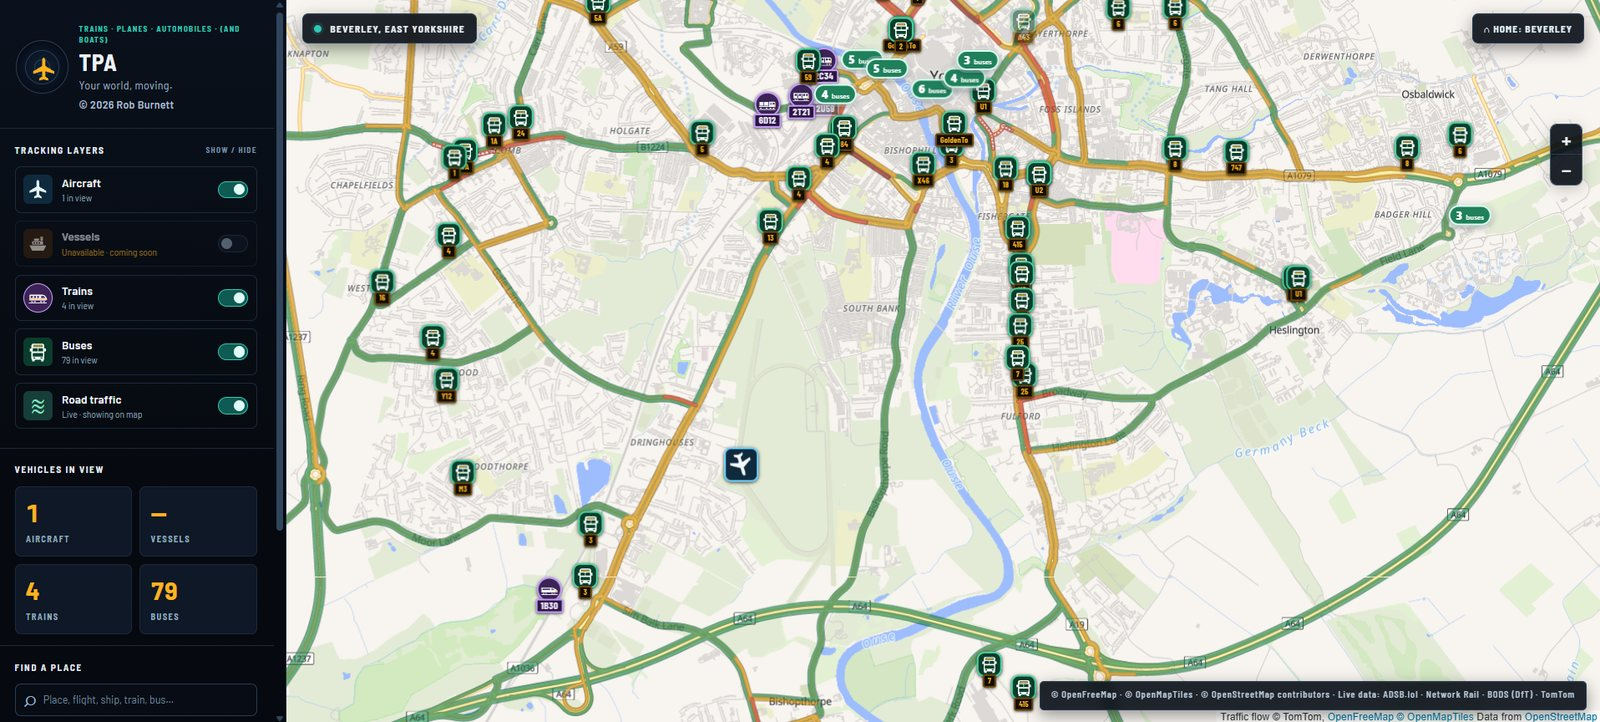
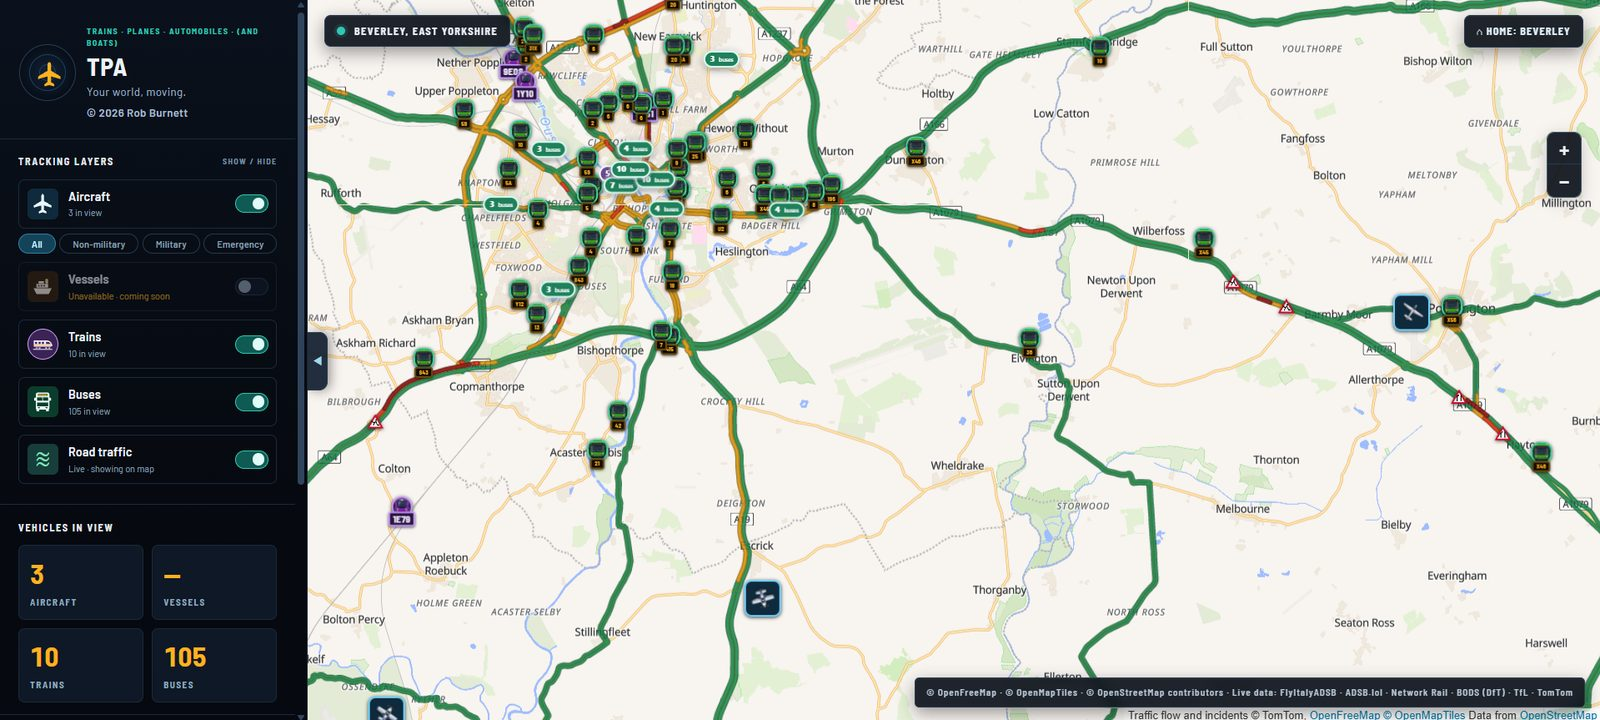
Holding page shows launch-day TPA; kit gives trains 450 MB
Claude-Session: https://claude.ai/code/session_01NgCC8xBThwbotK2t1ds1PW

diff --git a/v4/web/coming-soon/index.html b/v4/web/coming-soon/index.html
@@ -7,7 +7,8 @@
 <meta name="description" content="TPA: buses, trains, planes and road traffic moving live on one map of the UK. Free for everyone. Coming soon.">
 <meta name="theme-color" content="#05080e">
 <style>
-/* TPA coming-soon page (kit 4.16; 4.22.1: new icons, the fleet, Geoff's bus). Control-room look: navy-black, departure-board amber, signal teal.
+/* TPA coming-soon page (kit 4.16; 4.22.1: new icons, the fleet, Geoff's bus; 12 Nov 2026: shows what launch day looks like -
+   planes and their pictures, bus types, traffic signs, the owner's plane icon). Control-room look: navy-black, departure-board amber, signal teal.
    Self-contained: own fonts, no outside requests, nothing collected. */
 @font-face{font-family:'TPA Sans';src:url(fonts/Barlow-Regular.woff) format('woff');font-weight:400;font-display:swap}
 @font-face{font-family:'TPA Sans';src:url(fonts/Barlow-SemiBold.woff) format('woff');font-weight:600;font-display:swap}
@@ -59,21 +60,24 @@ h1 em{font-style:normal;color:var(--amber)}
 .m3{color:var(--teal);animation-duration:9s;animation-delay:-3s;border-radius:50%;top:28%}
 .m4{color:var(--purple);animation-duration:17s;animation-delay:-12s}
 @keyframes glide{from{transform:translateX(0)}to{transform:translateX(calc(100vw + 120px))}}
-.m3 svg{transform:rotate(90deg)}
+.m3{border:none;background:none}.m3 img{transform:rotate(90deg)}
 
 .mover.pic{padding:2px;overflow:hidden}.mover.pic img,.card .ic.pic img{width:100%;height:100%;object-fit:contain;display:block}
 .card .ic.pic{padding:2px;overflow:hidden}
 /* the fleet: click any bus or train for a picture of its type */
 .fleet-sec{padding-block:34px 40px}
 .fleet-lead{margin:-6px 0 16px;color:#c9d4e2;max-width:62ch}
-.fleet{display:grid;grid-template-columns:minmax(0,1.35fr) minmax(0,2fr);gap:12px}
-@media (max-width:760px){.fleet{grid-template-columns:minmax(0,1fr)}}
+.fleet{display:grid;gap:18px}
+.group h3{margin:0 0 8px;font-family:var(--sign);font-weight:700;font-size:.85rem;letter-spacing:.18em;text-transform:uppercase}
+.row6{display:grid;grid-template-columns:repeat(6,minmax(0,1fr));gap:8px}
+@media (max-width:860px){.row6{grid-template-columns:repeat(3,minmax(0,1fr))}}
+@media (max-width:420px){.row6{grid-template-columns:repeat(2,minmax(0,1fr))}}
+.fleet .plate{padding:6px}
+.fleet .plate figcaption{font-size:.68rem;padding-top:2px}
+.card .ic.sign{border:none;background:none}.card .ic.sign svg{width:42px;height:42px}
 .plate{margin:0;border-radius:12px;border:1px solid #cfd8e3;background:radial-gradient(ellipse at 50% 35%,#ffffff 0,#eef2f7 60%,#dfe5ed 100%);padding:10px;display:grid;align-content:space-between}
 .plate img{display:block;width:100%;height:auto;mix-blend-mode:multiply}
 .plate figcaption{color:#3a4a5e;font-size:.8rem;font-family:var(--sign);letter-spacing:.1em;text-transform:uppercase;padding:4px 4px 0}
-.trains{display:grid;grid-template-columns:repeat(3,minmax(0,1fr));gap:8px}
-.trains .plate{padding:6px}
-.trains .plate figcaption{font-size:.68rem;padding-top:2px}
 /* screen */
 .screen-sec{padding-block:30px}
 .monitor{border:1px solid var(--line2);border-radius:12px;background:var(--panel);padding:10px;box-shadow:0 30px 80px -30px rgba(255,178,30,.18),0 0 0 1px rgba(255,255,255,.02)}
@@ -130,7 +134,7 @@ footer .wrap{padding-block:18px 26px;color:var(--soft);font-size:.82rem;display:
     <div class="rail"></div>
     <div class="mover m1 pic"><img src="pics/icon-train.webp" alt=""></div>
     <div class="mover m2 pic"><img src="pics/icon-bus.webp" alt=""></div>
-    <div class="mover m3"><svg viewBox="0 0 32 32"><path fill="currentColor" d="M16 1.8c1.25 0 2.05 1.7 2.05 3.7V12l10.95 6.6v3.1L18.05 18.6V25l3.6 2.7v2.5L16 28.7l-5.65 1.5v-2.5l3.6-2.7v-6.4L3 21.7v-3.1L13.95 12V5.5c0-2 .8-3.7 2.05-3.7Z"/></svg></div>
+    <div class="mover m3 pic"><img src="pics/icon-plane.webp" alt=""></div>
     <div class="mover m4 pic"><img src="pics/icon-train.webp" alt=""></div>
   </div>
 
@@ -138,34 +142,47 @@ footer .wrap{padding-block:18px 26px;color:var(--soft);font-size:.82rem;display:
     <h2 id="ph">A first look</h2>
     <div class="monitor">
       <div class="bar"><span>TPA · live UK transport map</span><span class="live">● Preview</span></div>
-      <img src="preview.jpg" alt="A preview of TPA: a dark map of the UK with bus, train and plane icons and coloured road traffic" width="1600" height="722" onerror="document.getElementById('preview-sec').hidden=true">
+      <img src="preview.jpg" alt="A preview of TPA over York: buses, trains and planes on the map, roads coloured by traffic, and roadworks signs" width="1600" height="720" onerror="document.getElementById('preview-sec').hidden=true">
     </div>
-    <p class="caption">Taken from the test version over York. Map data © OpenStreetMap contributors, map style by OpenFreeMap, traffic flow © TomTom.</p>
+    <p class="caption">Taken from the test version over York, 12 November 2026. Map data © OpenStreetMap contributors, map style by OpenFreeMap, traffic flow and incidents © TomTom, aircraft from FlyItalyADSB.</p>
   </section>
 
   <section class="fleet-sec" aria-labelledby="fh">
     <h2 id="fh">Click anything</h2>
-    <p class="fleet-lead">Tap a bus or a train to see where it's going, and a picture of what it is: TPA's own drawings, from a Pendolino to a Class 66 freight engine.</p>
+    <p class="fleet-lead">Tap a bus, train or plane to see where it's going, and a picture of what it is: TPA's own drawings, from a double decker to a Pendolino to an Airbus A350.</p>
     <div class="fleet">
-      <figure class="plate"><img src="pics/bus-geoff.webp" alt="Geoff the cat giving a thumbs up from the driver's seat of a TPA bus" width="720" height="400" loading="lazy"><figcaption>Every bus · driver: Geoff</figcaption></figure>
-      <div class="trains">
-        <figure class="plate"><img src="pics/c800.webp" alt="" width="720" height="400" loading="lazy"><figcaption>Azuma</figcaption></figure>
-        <figure class="plate"><img src="pics/c390.webp" alt="" width="720" height="400" loading="lazy"><figcaption>Pendolino</figcaption></figure>
-        <figure class="plate"><img src="pics/c43.webp" alt="" width="720" height="400" loading="lazy"><figcaption>InterCity 125</figcaption></figure>
-        <figure class="plate"><img src="pics/c195.webp" alt="" width="720" height="400" loading="lazy"><figcaption>Civity</figcaption></figure>
-        <figure class="plate"><img src="pics/c755.webp" alt="" width="720" height="400" loading="lazy"><figcaption>FLIRT</figcaption></figure>
-        <figure class="plate"><img src="pics/c66.webp" alt="" width="720" height="400" loading="lazy"><figcaption>Class 66 freight</figcaption></figure>
-      </div>
+      <div class="group"><h3 style="color:var(--green)">Buses</h3><div class="row6">
+          <figure class="plate"><img src="pics/bus-dd.webp" alt="A double decker bus" width="720" height="400" loading="lazy"><figcaption>Double decker</figcaption></figure>
+          <figure class="plate"><img src="pics/bus-sd.webp" alt="A single decker bus" width="720" height="400" loading="lazy"><figcaption>Single decker</figcaption></figure>
+          <figure class="plate"><img src="pics/bus-coach.webp" alt="A coach" width="720" height="400" loading="lazy"><figcaption>Coach</figcaption></figure>
+          <figure class="plate"><img src="pics/bus-mini.webp" alt="A minibus" width="720" height="400" loading="lazy"><figcaption>Minibus</figcaption></figure>
+      </div></div>
+      <div class="group"><h3 style="color:var(--purple)">Trains</h3><div class="row6">
+          <figure class="plate"><img src="pics/c800.webp" alt="" width="720" height="400" loading="lazy"><figcaption>Azuma</figcaption></figure>
+          <figure class="plate"><img src="pics/c390.webp" alt="" width="720" height="400" loading="lazy"><figcaption>Pendolino</figcaption></figure>
+          <figure class="plate"><img src="pics/c43.webp" alt="" width="720" height="400" loading="lazy"><figcaption>InterCity 125</figcaption></figure>
+          <figure class="plate"><img src="pics/c195.webp" alt="" width="720" height="400" loading="lazy"><figcaption>Civity</figcaption></figure>
+          <figure class="plate"><img src="pics/c755.webp" alt="" width="720" height="400" loading="lazy"><figcaption>FLIRT</figcaption></figure>
+          <figure class="plate"><img src="pics/c66.webp" alt="" width="720" height="400" loading="lazy"><figcaption>Class 66 freight</figcaption></figure>
+      </div></div>
+      <div class="group"><h3 style="color:var(--teal)">Planes</h3><div class="row6">
+          <figure class="plate"><img src="pics/p-a350.webp" alt="" width="720" height="400" loading="lazy"><figcaption>Airbus A350</figcaption></figure>
+          <figure class="plate"><img src="pics/p-b747.webp" alt="" width="720" height="400" loading="lazy"><figcaption>Boeing 747</figcaption></figure>
+          <figure class="plate"><img src="pics/p-typhoon.webp" alt="" width="720" height="400" loading="lazy"><figcaption>Typhoon</figcaption></figure>
+          <figure class="plate"><img src="pics/p-police.webp" alt="" width="720" height="400" loading="lazy"><figcaption>Police helicopter</figcaption></figure>
+          <figure class="plate"><img src="pics/p-ambulance.webp" alt="" width="720" height="400" loading="lazy"><figcaption>Air ambulance</figcaption></figure>
+          <figure class="plate"><img src="pics/p-cessna.webp" alt="" width="720" height="400" loading="lazy"><figcaption>Light aircraft</figcaption></figure>
+      </div></div>
     </div>
   </section>
 
   <section aria-labelledby="eh">
     <h2 id="eh">What you'll see</h2>
     <div class="cards">
-      <article class="card"><span class="ic pic" style="color:var(--green)"><img src="pics/icon-bus.webp" alt=""></span><h3>Buses</h3><p>Buses following their real roads, with where they're heading and their next stop. Driven by Geoff, obviously.</p></article>
-      <article class="card"><span class="ic pic" style="color:var(--purple)"><img src="pics/icon-train.webp" alt=""></span><h3>Trains</h3><p>Trains gliding along the real tracks, standing at their platforms, with the train type and how late they're running.</p></article>
-      <article class="card"><span class="ic" style="color:var(--teal)"><svg viewBox="0 0 32 32"><path fill="currentColor" d="M16 1.8c1.25 0 2.05 1.7 2.05 3.7V12l10.95 6.6v3.1L18.05 18.6V25l3.6 2.7v2.5L16 28.7l-5.65 1.5v-2.5l3.6-2.7v-6.4L3 21.7v-3.1L13.95 12V5.5c0-2 .8-3.7 2.05-3.7Z"/></svg></span><h3>Planes</h3><p>Aircraft over the UK, from airline and aircraft type to the moment they touch down.</p></article>
-      <article class="card"><span class="ic" style="color:var(--amber)"><svg viewBox="0 0 32 32"><path fill="currentColor" d="M4 26 12 6h3l-1 6h4l-1-6h3l8 20h-6l-1-5h-6l-1 5Zm9-9h6l-.6-3h-4.8Z"/></svg></span><h3>Road traffic</h3><p>Main roads coloured by how busy they are, refreshed every ten minutes.</p></article>
+      <article class="card"><span class="ic pic" style="color:var(--green)"><img src="pics/icon-bus.webp" alt=""></span><h3>Buses</h3><p>Buses following their real roads, with their route, where they're heading and their next stop, and the type of bus where we know it.</p></article>
+      <article class="card"><span class="ic pic" style="color:var(--purple)"><img src="pics/icon-train.webp" alt=""></span><h3>Trains</h3><p>Trains gliding along the real tracks and standing at their platforms, with the train type, how late they're running and every stop they call at.</p></article>
+      <article class="card"><span class="ic pic" style="color:var(--teal)"><img src="pics/icon-plane.webp" alt=""></span><h3>Planes</h3><p>Aircraft over the UK, with the airline, where they're flying from and to, their height and speed, and a picture of the aircraft type.</p></article>
+      <article class="card"><span class="ic sign"><svg viewBox="0 0 32 32"><path d="M16 2.5 30.5 28H1.5Z" fill="#c8102e"/><path d="M16 8.2 25.6 25H6.4Z" fill="#fff"/><circle cx="17.6" cy="13.2" r="1.5" fill="#111"/><path d="M17 15.2 14.4 18.4 12.6 22.6M17 15.2l1.5 4.2 1.7 3.2M16.3 16.8l-3.5 1M14 18.6 9.6 15.2" stroke="#111" stroke-width="1.5" fill="none" stroke-linecap="round"/><path d="M19.4 23.2h4.6l-2.3-3z" fill="#111"/></svg></span><h3>Road traffic</h3><p>Main roads coloured by how busy they are, plus road signs for accidents, breakdowns, closures and roadworks happening right now.</p></article>
     </div>
     <p class="caption" style="margin-top:12px">Boats are on the list for later.</p>
   </section>
